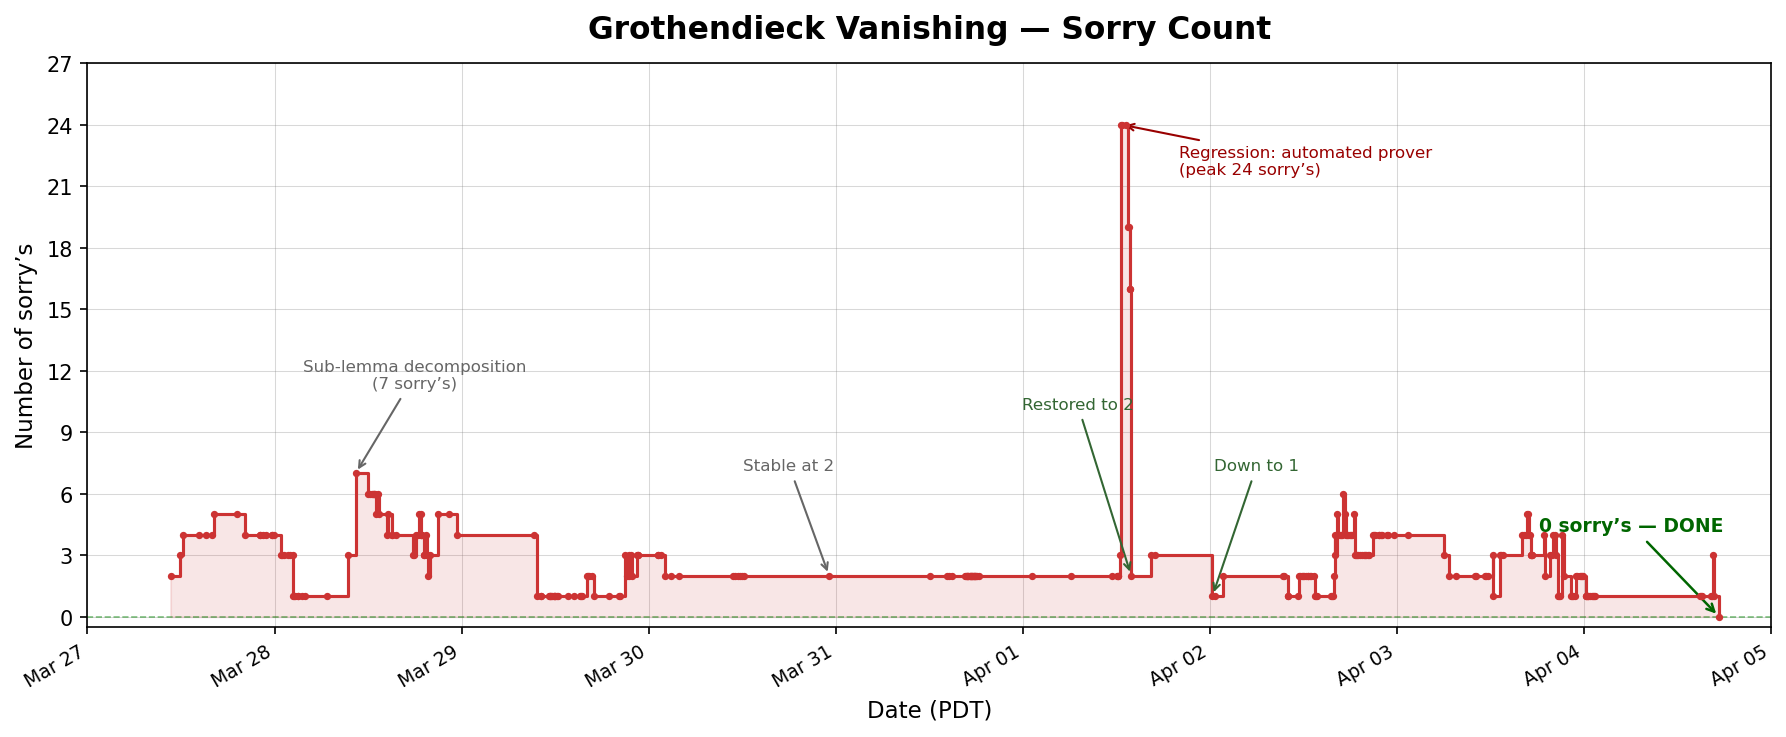
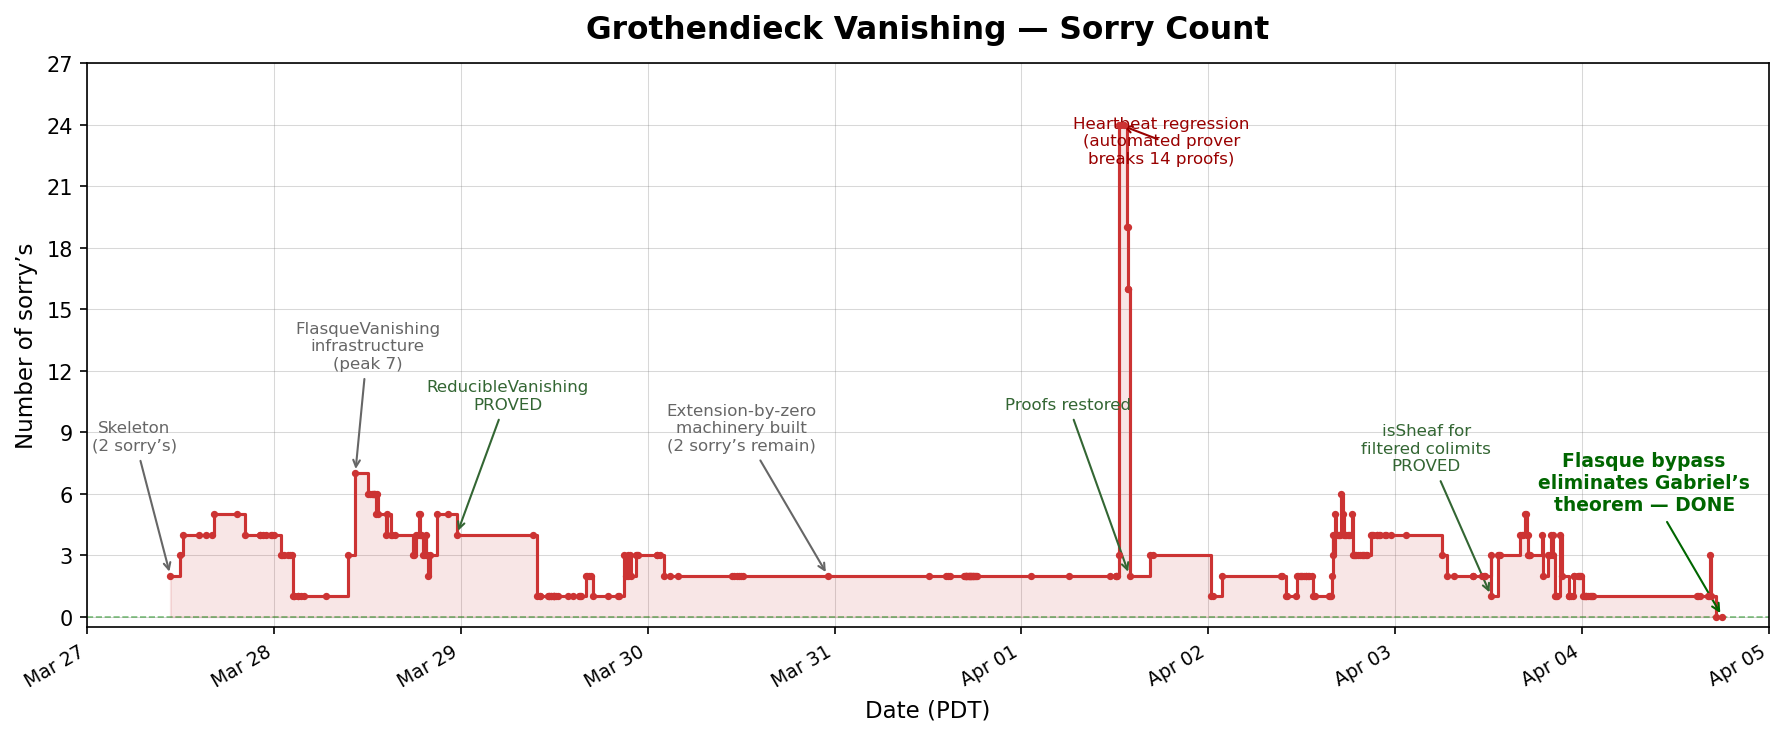
docs: rewrite sorry chart annotations with actual milestones
Replace generic "N sorry's" labels with meaningful milestones:
- Skeleton (2 sorry's)
- FlasqueVanishing infrastructure (peak)
- ReducibleVanishing PROVED
- Extension-by-zero machinery built
- Heartbeat regression (automated prover breaks 14 proofs)
- Proofs restored
- isSheaf for filtered colimits PROVED
- Flasque bypass eliminates Gabriel's theorem — DONE

diff --git a/scripts/sorry_history_gv.py b/scripts/sorry_history_gv.py
@@ -164,94 +164,79 @@ def make_chart(data):
     ax.set_axisbelow(True)
 
     # --- Annotations ---
+    def _annotate(label, xy, xytext, color="#666666", bold=False, fontsize=8):
+        ax.annotate(
+            label, xy=xy, xytext=xytext, fontsize=fontsize,
+            fontweight="bold" if bold else "normal", color=color,
+            arrowprops=dict(arrowstyle="->", color=color, lw=1),
+            ha="center", va="bottom",
+        )
 
-    # Find the peak (24 sorry's on Apr 1)
-    peak_idx = max(range(len(counts)), key=lambda i: counts[i])
-    peak_date = dates[peak_idx]
-    peak_val = counts[peak_idx]
+    def _find(date_str, hour_ge=0, count_pred=None):
+        """Find first data point matching criteria."""
+        d = datetime.fromisoformat(date_str).date()
+        for dt, c in data:
+            if dt.date() == d and dt.hour >= hour_ge:
+                if count_pred is None or count_pred(c):
+                    return (dt, c)
+        return None
 
-    ax.annotate(
-        f"Regression: automated prover\n(peak {peak_val} sorry\u2019s)",
-        xy=(peak_date, peak_val),
-        xytext=(datetime(2026, 4, 1, 20, 0, tzinfo=PDT), peak_val - 1),
-        fontsize=8,
-        color="#990000",
-        arrowprops=dict(arrowstyle="->", color="#990000", lw=1),
-        ha="left", va="top",
-    )
+    # 1. Skeleton (Mar 27, ~2 sorry's)
+    p = _find("2026-03-27")
+    if p:
+        _annotate("Skeleton\n(2 sorry\u2019s)",
+                  xy=p, xytext=(datetime(2026, 3, 27, 6, 0, tzinfo=PDT), 8))
 
-    # Find the "decompose sorry's" peak on Mar 28 (~7)
-    mar28_data = [(d, c) for d, c in data
-                  if d.date() == datetime(2026, 3, 28).date()]
+    # 2. FlasqueVanishing + epi_app proved (Mar 28, drops from ~7 to ~3)
+    mar28_data = [(d, c) for d, c in data if d.date() == datetime(2026, 3, 28).date()]
     if mar28_data:
-        mar28_peak = max(mar28_data, key=lambda x: x[1])
-        ax.annotate(
-            f"Sub-lemma decomposition\n({mar28_peak[1]} sorry\u2019s)",
-            xy=(mar28_peak[0], mar28_peak[1]),
-            xytext=(datetime(2026, 3, 28, 18, 0, tzinfo=PDT), mar28_peak[1] + 4),
-            fontsize=8,
-            color="#666666",
-            arrowprops=dict(arrowstyle="->", color="#666666", lw=1),
-            ha="center", va="bottom",
-        )
+        peak28 = max(mar28_data, key=lambda x: x[1])
+        _annotate(f"FlasqueVanishing\ninfrastructure\n(peak {peak28[1]})",
+                  xy=(peak28[0], peak28[1]),
+                  xytext=(datetime(2026, 3, 28, 12, 0, tzinfo=PDT), peak28[1] + 5))
 
-    # Drop to 2 around Mar 30
-    mar30_data = [(d, c) for d, c in data
-                  if d.date() == datetime(2026, 3, 30).date()]
+    # 3. ReducibleVanishing proved (Mar 28 evening)
+    p = _find("2026-03-28", hour_ge=20, count_pred=lambda c: c <= 4)
+    if p:
+        _annotate("ReducibleVanishing\nPROVED", xy=p, color="#336633",
+                  xytext=(datetime(2026, 3, 29, 6, 0, tzinfo=PDT), 10))
+
+    # 4. Down to 2: subsheaf + colimit remain (Mar 30)
+    mar30_data = [(d, c) for d, c in data if d.date() == datetime(2026, 3, 30).date()]
     if mar30_data:
-        mar30_point = mar30_data[-1]
-        ax.annotate(
-            f"Stable at {mar30_point[1]}",
-            xy=(mar30_point[0], mar30_point[1]),
-            xytext=(datetime(2026, 3, 30, 18, 0, tzinfo=PDT), mar30_point[1] + 5),
-            fontsize=8,
-            color="#666666",
-            arrowprops=dict(arrowstyle="->", color="#666666", lw=1),
-            ha="center", va="bottom",
-        )
+        mar30_end = mar30_data[-1]
+        _annotate(f"Extension-by-zero\nmachinery built\n({mar30_end[1]} sorry\u2019s remain)",
+                  xy=mar30_end,
+                  xytext=(datetime(2026, 3, 30, 12, 0, tzinfo=PDT), mar30_end[1] + 6))
 
-    # Restored to 2 on Apr 1 afternoon
+    # 5. Regression: automated prover breaks 14 proofs (Apr 1 peak)
+    peak_idx = max(range(len(counts)), key=lambda i: counts[i])
+    peak_date, peak_val = dates[peak_idx], counts[peak_idx]
+    _annotate(f"Heartbeat regression\n(automated prover\nbreaks 14 proofs)",
+              xy=(peak_date, peak_val), color="#990000",
+              xytext=(datetime(2026, 4, 1, 18, 0, tzinfo=PDT), peak_val - 2))
+
+    # 6. Restored (Apr 1)
     apr1_restored = [(d, c) for d, c in data
                      if d.date() == datetime(2026, 4, 1).date()
                      and d.hour >= 13 and c <= 3]
     if apr1_restored:
-        restore_point = apr1_restored[0]
-        ax.annotate(
-            f"Restored to {restore_point[1]}",
-            xy=(restore_point[0], restore_point[1]),
-            xytext=(datetime(2026, 4, 1, 7, 0, tzinfo=PDT), 10),
-            fontsize=8,
-            color="#336633",
-            arrowprops=dict(arrowstyle="->", color="#336633", lw=1),
-            ha="center", va="bottom",
-        )
+        _annotate("Proofs restored", xy=apr1_restored[0], color="#336633",
+                  xytext=(datetime(2026, 4, 1, 6, 0, tzinfo=PDT), 10))
 
-    # Drop to 1 on Apr 2
-    apr2_1 = [(d, c) for d, c in data
-              if d.date() == datetime(2026, 4, 2).date() and c == 1]
-    if apr2_1:
-        ax.annotate(
-            "Down to 1",
-            xy=(apr2_1[0][0], 1),
-            xytext=(datetime(2026, 4, 2, 6, 0, tzinfo=PDT), 7),
-            fontsize=8,
-            color="#336633",
-            arrowprops=dict(arrowstyle="->", color="#336633", lw=1),
-            ha="center", va="bottom",
-        )
+    # 7. Consolidated to 1 sorry: filtered colimit (Apr 2-3)
+    apr3_1 = [(d, c) for d, c in data
+              if d.date() == datetime(2026, 4, 3).date() and c == 1]
+    if apr3_1:
+        _annotate("isSheaf for\nfiltered colimits\nPROVED",
+                  xy=apr3_1[0], color="#336633",
+                  xytext=(datetime(2026, 4, 3, 4, 0, tzinfo=PDT), 7))
 
-    # Final 0 on Apr 4
+    # 8. Final: 0 sorry's via flasque bypass (Apr 4)
     final = data[-1]
-    ax.annotate(
-        "0 sorry\u2019s \u2014 DONE",
-        xy=(final[0], final[1]),
-        xytext=(datetime(2026, 4, 4, 6, 0, tzinfo=PDT), 4),
-        fontsize=9,
-        fontweight="bold",
-        color="#006600",
-        arrowprops=dict(arrowstyle="->", color="#006600", lw=1.2),
-        ha="center", va="bottom",
-    )
+    _annotate("Flasque bypass\neliminates Gabriel\u2019s\ntheorem \u2014 DONE",
+              xy=(final[0], final[1]), color="#006600", bold=True, fontsize=9,
+              xytext=(datetime(2026, 4, 4, 8, 0, tzinfo=PDT), 5))
 
     # Horizontal line at y=0
     ax.axhline(y=0, color="green", linewidth=0.8, alpha=0.5, linestyle="--")
